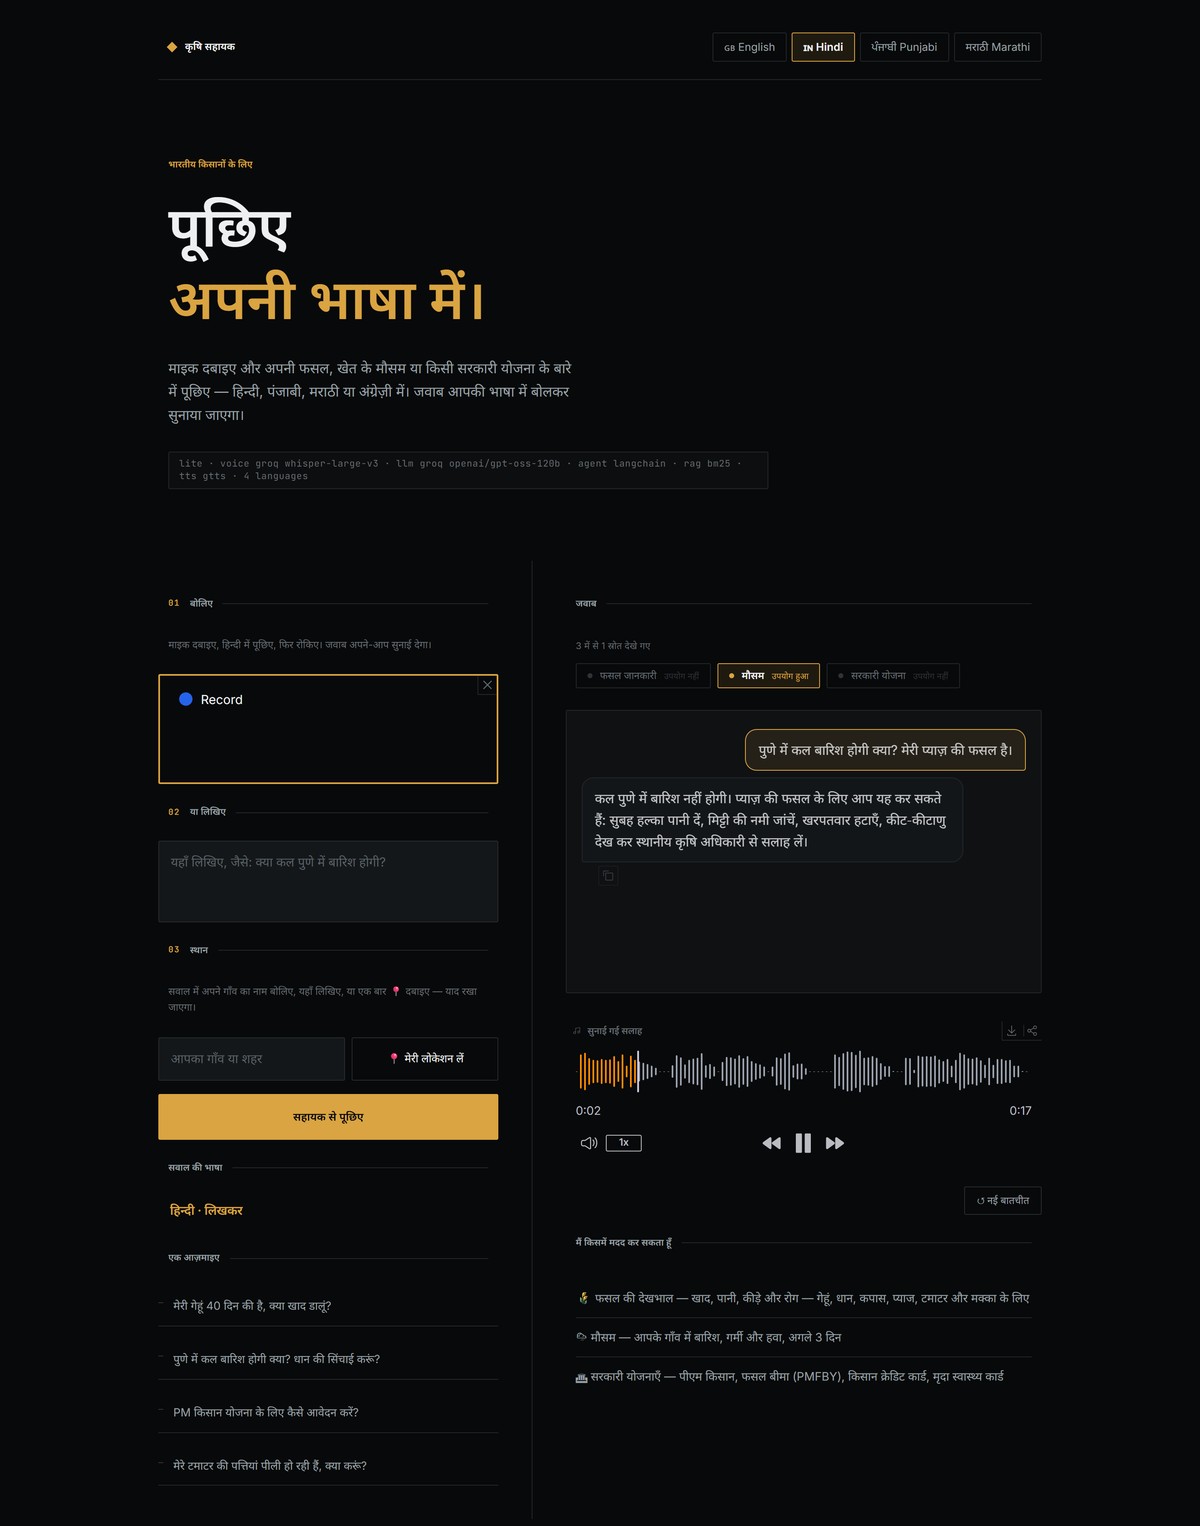
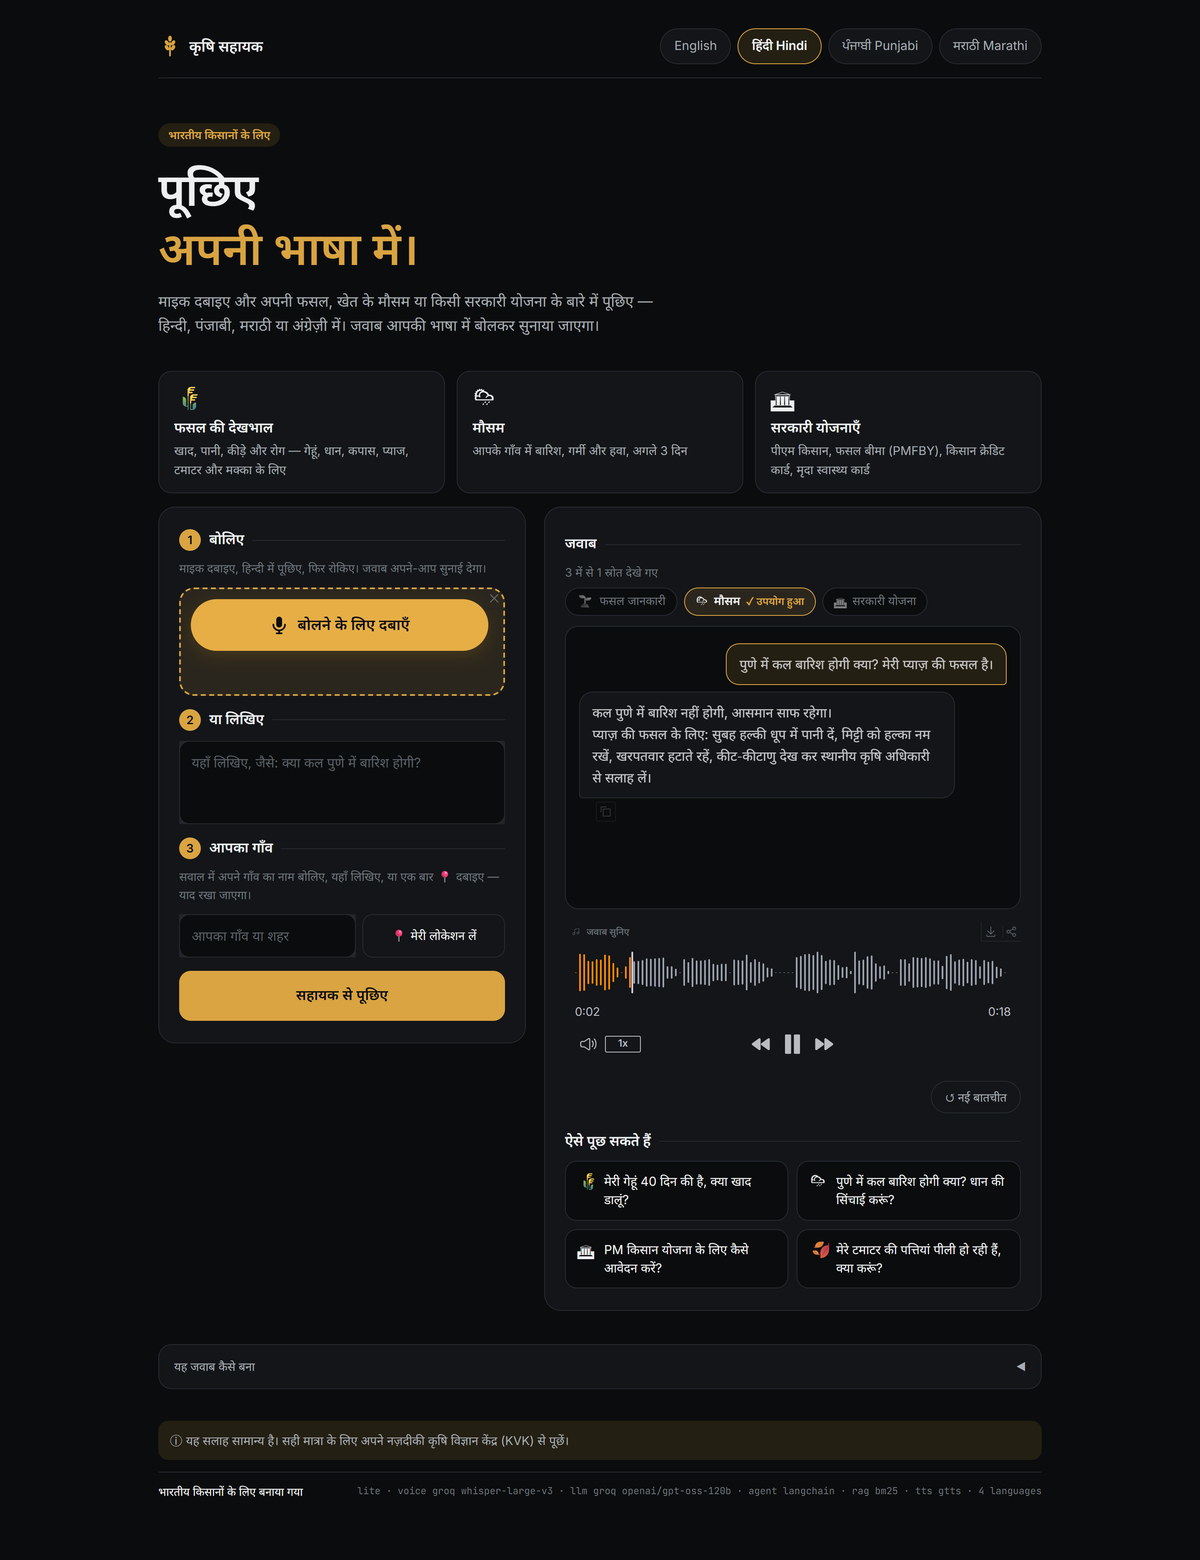
README: screenshots of the new screen, taken from the live site
Light English, dark Hindi, and the phone's first screen and an answer in Marathi.

diff --git a/README.md b/README.md
@@ -33,7 +33,7 @@
 </p>
 
 <p align="center">
-  <a href="https://multilingual-agri-ai-agent.onrender.com"><img src="assets/screenshots/app-light.png" alt="The live app: language picker, 'Ask in your own language.' headline, microphone, and a conversation where the assistant asks the wheat crop's age, the farmer replies '40 days', and the assistant answers with the fertilizer plan and speaks it" width="100%"></a>
+  <a href="https://multilingual-agri-ai-agent.onrender.com"><img src="assets/screenshots/app-light.png" alt="The live app: language buttons, 'Ask in your own language.' headline, three cards (crop care, weather, government schemes), a big 'Tap to speak' button, and a conversation where the assistant asks the wheat crop's age, the farmer replies '40 days', and the assistant answers with the fertilizer plan and speaks it" width="100%"></a>
 </p>
 <p align="center"><sub>The live app at <a href="https://multilingual-agri-ai-agent.onrender.com">multilingual-agri-ai-agent.onrender.com</a>, unedited. The assistant needs the wheat's age before it can advise on fertilizer, so it asks; the farmer answers “40 days” and the earlier question is completed from memory.</sub></p>
 
@@ -64,12 +64,14 @@ setting, and picking a language switches the whole screen — not just the answe
 
 <table>
   <tr>
-    <td width="62%" align="center"><img src="assets/screenshots/app-dark-hindi.png" alt="The live app in dark mode with Hindi selected: the whole page is in Hindi; asked whether it will rain in Pune tomorrow, it answers from the live forecast with onion crop care" width="100%"></td>
-    <td width="38%" align="center"><img src="assets/screenshots/phone-marathi.png" alt="The live app on a phone in Marathi: documents needed for PM-KISAN, answered from the scheme documents and spoken" width="82%"></td>
+    <td width="52%" align="center"><img src="assets/screenshots/app-dark-hindi.png" alt="The live app in dark mode with Hindi selected: the whole page is in Hindi, including the big mic button; asked whether it will rain in Pune tomorrow, it answers from the live forecast with onion crop care" width="100%"></td>
+    <td width="24%" align="center"><img src="assets/screenshots/phone-mic.png" alt="The live app on a phone in Marathi: the first screen, with the big gold button reading बोलण्यासाठी दाबा (tap to speak)" width="100%"></td>
+    <td width="24%" align="center"><img src="assets/screenshots/phone-marathi.png" alt="The live app on a phone in Marathi: documents needed for PM-KISAN, answered from the scheme documents and spoken, with sample questions below" width="100%"></td>
   </tr>
   <tr>
     <td align="center"><sub><b>Hindi, dark mode</b> — the whole page switches language; Pune's live forecast, answered and spoken in Hindi</sub></td>
-    <td align="center"><sub><b>Marathi, on a phone</b> — PM-KISAN documents, retrieved from the scheme text</sub></td>
+    <td align="center"><sub><b>Marathi, phone</b> — the mic comes first: “बोलण्यासाठी दाबा”</sub></td>
+    <td align="center"><sub><b>Marathi, phone</b> — PM-KISAN documents, from the scheme text</sub></td>
   </tr>
 </table>
 
